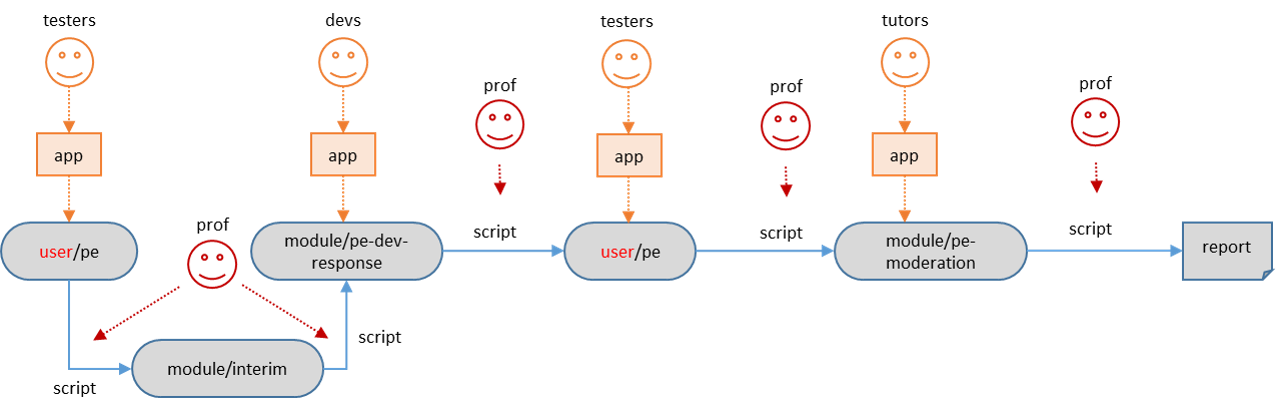
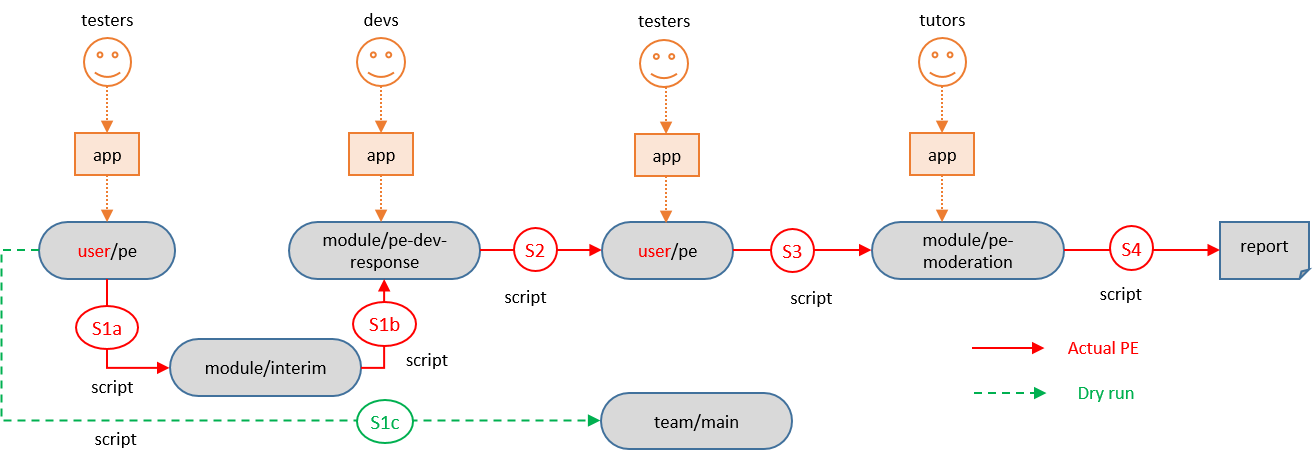
Update workflow diagram, add numbers to script actions

diff --git a/README.md b/README.md
@@ -4,12 +4,18 @@
 
 ## Bug Reporting Phase
 
+### [Script S0] Check for repo existence
+
+* Check if the required repo exists in each student's GitHub account
+* Email the student if it doesn't exist
+* Email account username/password to be taken as parameters
+
 ### [App] Collect Bug Reports
 
 * Title and body as the tester entered.
 * Labels: `severity.*`, `type.*` (both compulsory)
 
-### [Script] Tester-Repo → Interim-Repo
+### [Script S1a] Tester-Repo → Interim-Repo
 
 **Note: issue title remains the same as the original issue, throughout the workflow**
 
@@ -18,7 +24,7 @@ Issue body:
 {original issue description}
 
 <hr>
-<sub>[original: username/repo-name#issue-number]</sub>
+<sub>[original: username/interim-repo-name#issue-number]</sub>
 ```
 Example:
 
@@ -35,24 +41,27 @@ Notes:
 * Check the timestamp. Only bugs reported within the PE period should be transferred. Add a comment to issues falling outside the accepted time window.
   >Bug report not accepted as it was modified outside the time window `{start time}-{end time}`
 
-### [Script] In the dry run: Tester-Repo → Team-Repo
 
-* Transfer the bug report to the respective team repo.
-* Labels are to be omitted.
-
-### [Script] Interim-Repo → Dev-Repo
+### [Script S1b] Interim-Repo → Dev-Repo
 
 Body:
 ```
 {issue description: same as interim}
 
 <hr>
-<sub>[original: module-org/repo-name#issue-number]</sub>
+<sub>[original: module-org/interim-repo-name#issue-number]</sub>
 ```
 
 Notes:
 * Copy all labels
 * Apply the correct `tutorial.*` label and `team.*` label to indicate the receiving team
+
+
+### [Script S1c] In the dry run: Tester-Repo → Team-Repo
+
+* Transfer the bug report to the respective team repo.
+* Labels are to be omitted.
+
 
 ## Dev Response Phase
 
@@ -82,7 +91,7 @@ Example:
 
 Labels: `severity.*`, `type.*`, `response.*`, `duplicate`
 
-### [Script] Dev-Repo → Tester-Repo
+### [Script S2] Dev-Repo → Tester-Repo
 
 Add a comment to the original issue in `tester/repo-name`, in the following format:
 
@@ -168,7 +177,7 @@ Update the comment. Example:
 >
 >-------------------
 
-### [Script] Tester-Repo → Tutor-Repo
+### [Script S3] Tester-Repo → Tutor-Repo
 
 Body:
 ```
